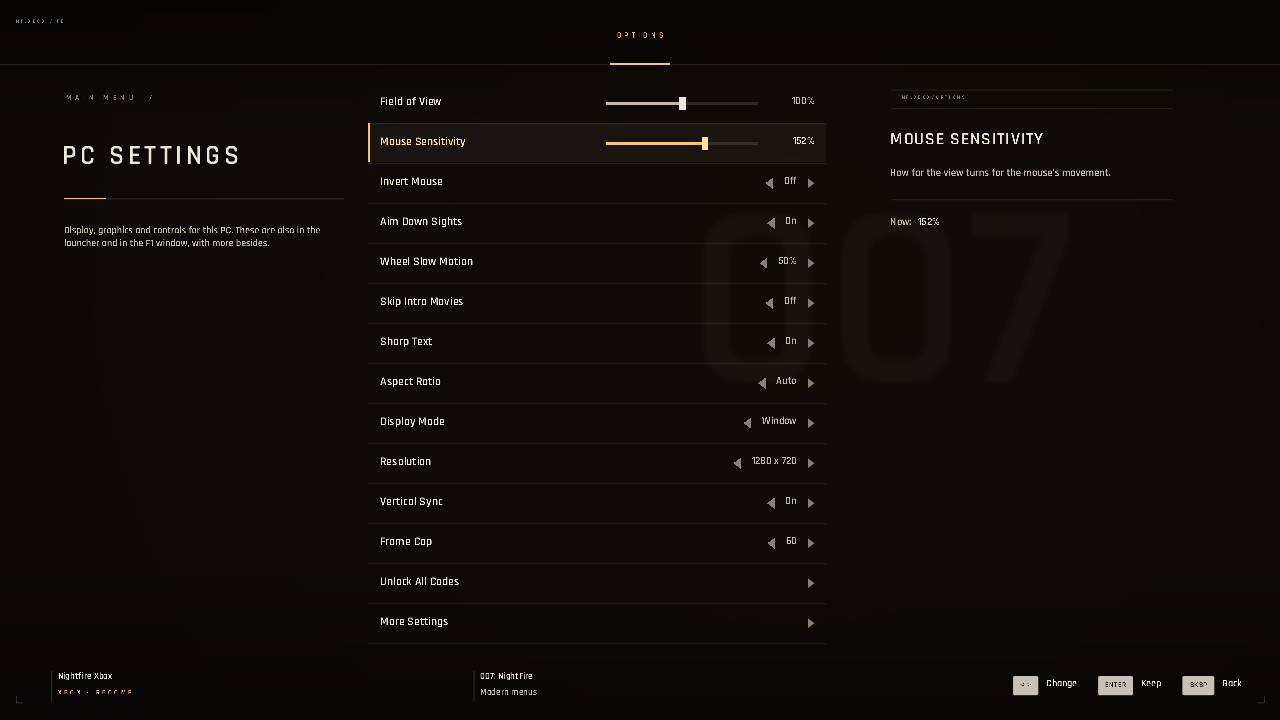
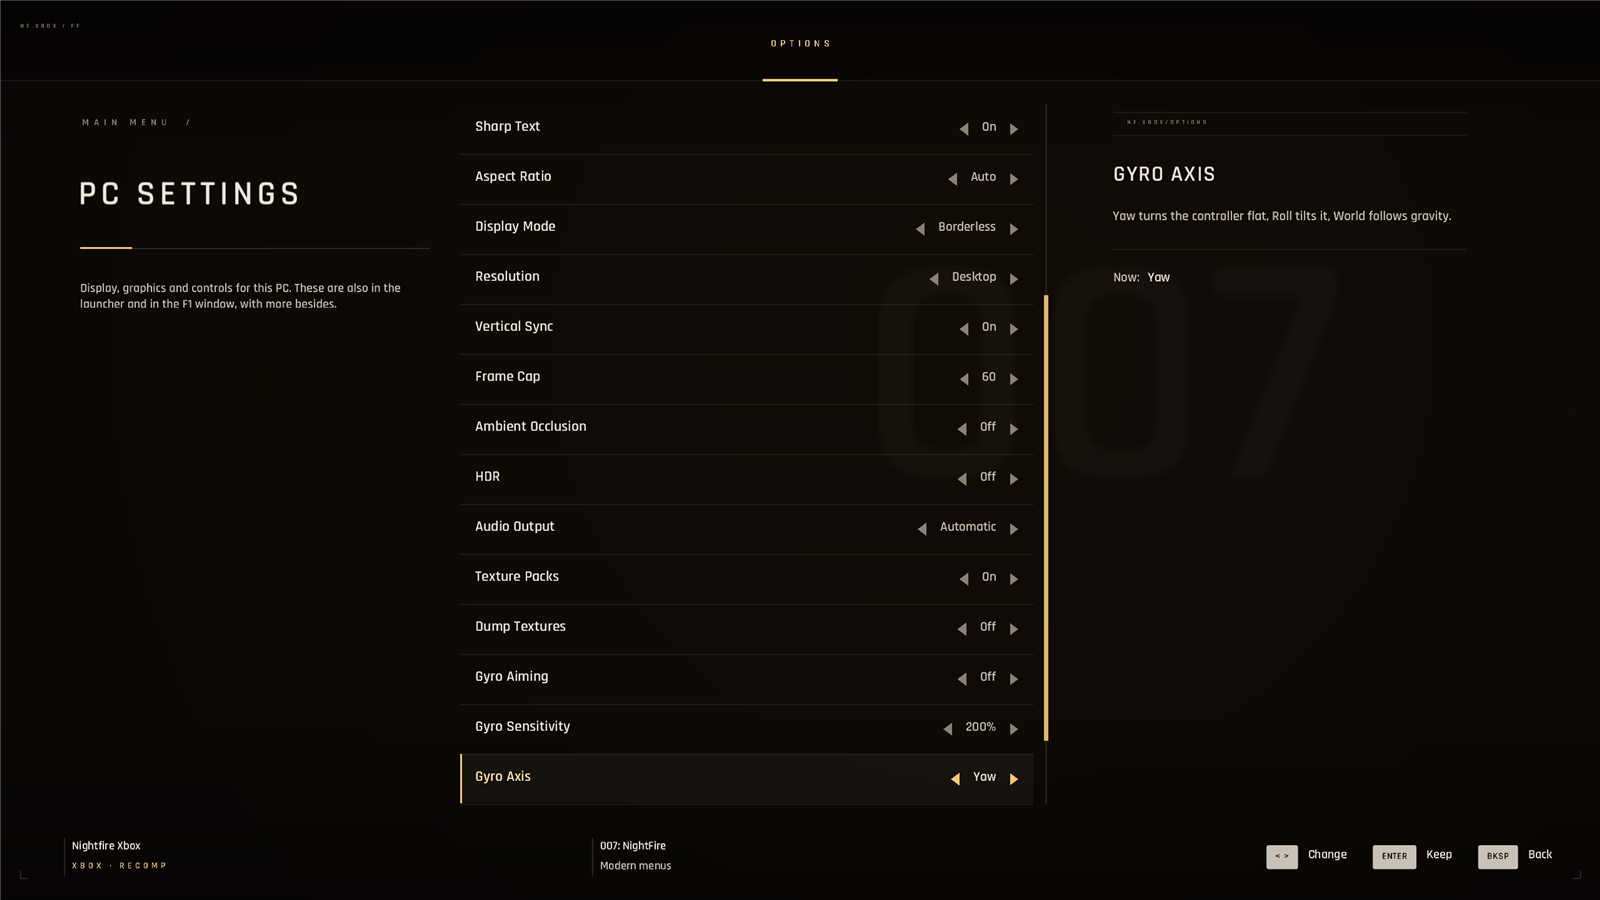
v1.6: high frame rate, ambient occlusion, HDR, surround, texture packs, gyro
README and changelog for v1.6, a new PC Settings screenshot, ambient
occlusion before/after screenshots, TGP482's licence for the ported
features, and credit to Harry (hk21x) for the base port.

diff --git a/README.md b/README.md
@@ -13,7 +13,7 @@ quality-of-life features added on top.
 
 ## Download and setup
 
-1. Download `NightfireXboxPC-v1.5.zip` from the [Releases](../../releases) page and unzip it anywhere.
+1. Download `NightfireXboxPC-v1.6.zip` from the [Releases](../../releases) page and unzip it anywhere.
 2. Put your disc image in the `assets` folder, for example `assets\007 - Nightfire (USA).iso`.
 3. Start **`Nightfire Launcher.exe`** (or `Nightfire.exe`).
 4. The first start compiles the game code from your disc. This takes a few minutes and happens only once (and again
@@ -25,6 +25,22 @@ compiler are included in the zip.
 ---
 
 ## Features
+
+### New in v1.6: high frame rate, ambient occlusion, HDR, surround, texture packs, gyro
+Ported from [TGP482's NightFire port](https://github.com/TGP482/007Nightfire-XBERecomp) and wired into this
+version's PC Settings and F1 window:
+- **Uncapped frame rate.** The game steps by real time, so it keeps its normal speed at 120, 144, 240 fps or more,
+  with fixes for everything that counted 60 fps frames. Frame Cap goes from 30 to 360 or Unlimited. (The driving
+  missions stay at the console's rate.)
+- **Ambient occlusion** (SSAO or GTAO): soft shadows where surfaces meet, fading out with the game's fog.
+- **HDR10** on a display with Windows HDR on, and **5.1 surround** sound.
+- **Texture packs:** images in `textures\replacement` replace the game's own; Dump Textures saves the originals
+  into `textures\dumps` (PNG or DDS) to make one.
+- **Gyro aiming** with a DualSense, DualShock 4, Switch Pro or other gyro controller.
+
+| Ambient occlusion off | GTAO |
+|---|---|
+| ![Ambient occlusion off](docs/screenshots/ambient-occlusion-off.png) | ![GTAO](docs/screenshots/ambient-occlusion.png) |
 
 ### Modern menus
 The whole single-player front end and the pause screen are redrawn in a clean, modern style inspired by the PS2 PC
@@ -47,8 +63,9 @@ and bonus screens, and the credits. Multiplayer and the driving missions' own me
 ### PC Settings in the game
 A **PC Settings** page in the main menu and on the pause screen. It covers field of view, mouse sensitivity, invert
 mouse, aim down sights, wheel slow motion, skipping the intro movies, sharp text, aspect ratio (including
-ultrawide), display mode, resolution, vertical sync and frame cap, plus "Unlock All Codes". More options are in the
-launcher and in the F1 settings window.
+ultrawide), display mode, resolution, vertical sync, frame cap, ambient occlusion, HDR, audio output, texture
+packs and dumping, and gyro aiming, plus "Unlock All Codes". More options are in the launcher and in the F1
+settings window.
 
 ![PC Settings](docs/screenshots/pc-settings.png)
 
@@ -112,19 +129,21 @@ All keys can be changed in the F1 window.
 
 ---
 
-## Changes in v1.5
+## Changes in v1.6
 See [CHANGELOG.md](CHANGELOG.md). Highlights:
-- The driving missions' hints show PC keys ("Pull [left mouse button] to Fire").
-- Equinox: firing the Phoenix Samurai no longer pushes Bond down through the floor.
-- Equinox: the mouse aims in zero gravity the same as in the rest of the game.
-- The weapon wheel works on the driving missions' mounted guns.
-- PC Settings opened from the pause screen: the arrows change the values again.
+- Uncapped frame rate with the game at its normal speed.
+- Ambient occlusion (SSAO / GTAO), HDR10, 5.1 surround, texture packs and dumping, gyro aiming.
+- PC Settings scrolls, with rows for all of the above.
 
 ---
 
 ## Credits and license
-- Based on TGP482's Xbox project: nightfire-recomp, the static recompilation of the Xbox version, built on the
-  XboxXBE-Recomp toolkit. Its licence is in [`licenses/nightfire-recomp-LICENSE.txt`](licenses/nightfire-recomp-LICENSE.txt).
+- Based on Harry's (hk21x) [nightfire-recomp](https://github.com/hk21x/nightfire-recomp), the static
+  recompilation of the Xbox version, built on TGP482's XboxXBE-Recomp toolkit. Its licence is in
+  [`licenses/nightfire-recomp-LICENSE.txt`](licenses/nightfire-recomp-LICENSE.txt).
+- The v1.6 features are ported from TGP482's
+  [007Nightfire-XBERecomp](https://github.com/TGP482/007Nightfire-XBERecomp) (MIT):
+  [`licenses/TGP482-007Nightfire-XBERecomp-LICENSE.txt`](licenses/TGP482-007Nightfire-XBERecomp-LICENSE.txt).
 - Third-party parts of the toolkit: [`licenses/THIRD_PARTY.txt`](licenses/THIRD_PARTY.txt).
 - Menu font: Rajdhani (SIL Open Font License): [`licenses/Rajdhani-OFL.txt`](licenses/Rajdhani-OFL.txt).
 - This repository: [MIT](LICENSE).

diff --git a/CHANGELOG.md b/CHANGELOG.md
@@ -1,5 +1,19 @@
 # Changelog
 
+## v1.6 (2026-11-21)
+Ported from TGP482's NightFire port (MIT licence), and added to PC Settings and the F1 window:
+- Uncapped frame rate: the game steps by real time, so it keeps its normal speed at 120, 144, 240 fps or more. The
+  things that counted 60 fps frames (gadget recharge, grapple, helicopters, particles, glass, debris, doors, timers,
+  shots, menu key repeat) keep their pace. Frame Cap now offers 30 to 360 or Unlimited. The driving missions stay at
+  the console's rate.
+- Ambient occlusion: SSAO or GTAO, fading out with the game's fog.
+- HDR10 output on a display with Windows HDR on.
+- 5.1 surround sound (automatic on a surround device), stereo or mono.
+- Texture packs (`textures\replacement`) and texture dumping (`textures\dumps`, PNG or DDS).
+- Gyro aiming (DualSense, DualShock 4, Switch Pro and others): on foot, in zero gravity and on mounted guns, with
+  sensitivity and axis settings.
+- PC Settings is now a scrolling list with the new rows.
+
 ## v1.5 (2026-11-21)
 - Driving missions: the hint pictures show PC keys and mouse buttons (for example "Pull [left mouse button] to
   Fire" in Paris Prelude) instead of the Xbox controller's.
